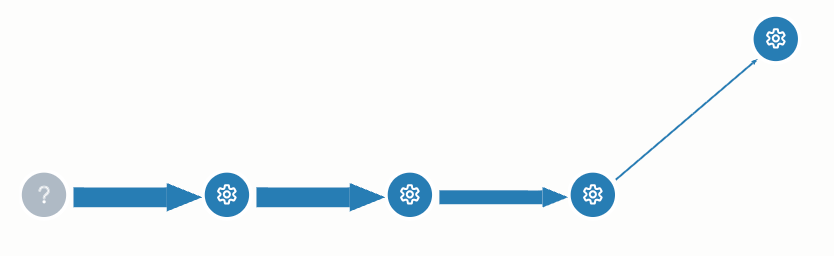
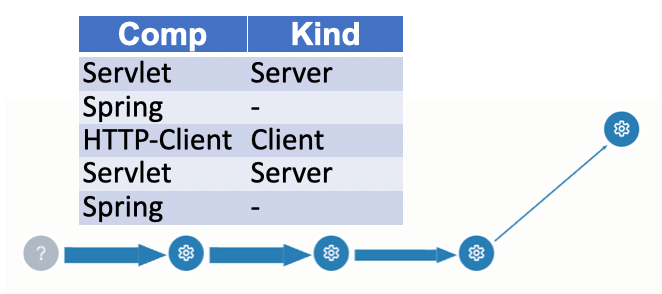
update

diff --git a/README.md b/README.md
@@ -56,6 +56,15 @@ Please note that you must use a JDK with a version greater equal 21 to be able t
 - Clone this Git repository on the OCI instance. Your local clone (the directory *otello*) is the working directory for steps below.
 - Assemble the build, with Gradle. Navigate into the *app* folder, and execute: ```gradle assemble```.
 
+## The Otello application
+
+The example app is a list of files. It contains a 
+Java-based [Spring Boot](https://spring.io/projects/spring-boot) application, with a servlet listening for requests, and processing
+incoming requests by doing some magic logic on it and calling another "service" provided by a second class.
+Those primitives are illustrated in the following representation:
+
+![otell-app.png](pics/otell-app.png)
+
 ## Run&inspect the example
 
 Run the Otello app: ```java -jar .app//build/libs/otello.jar```.
